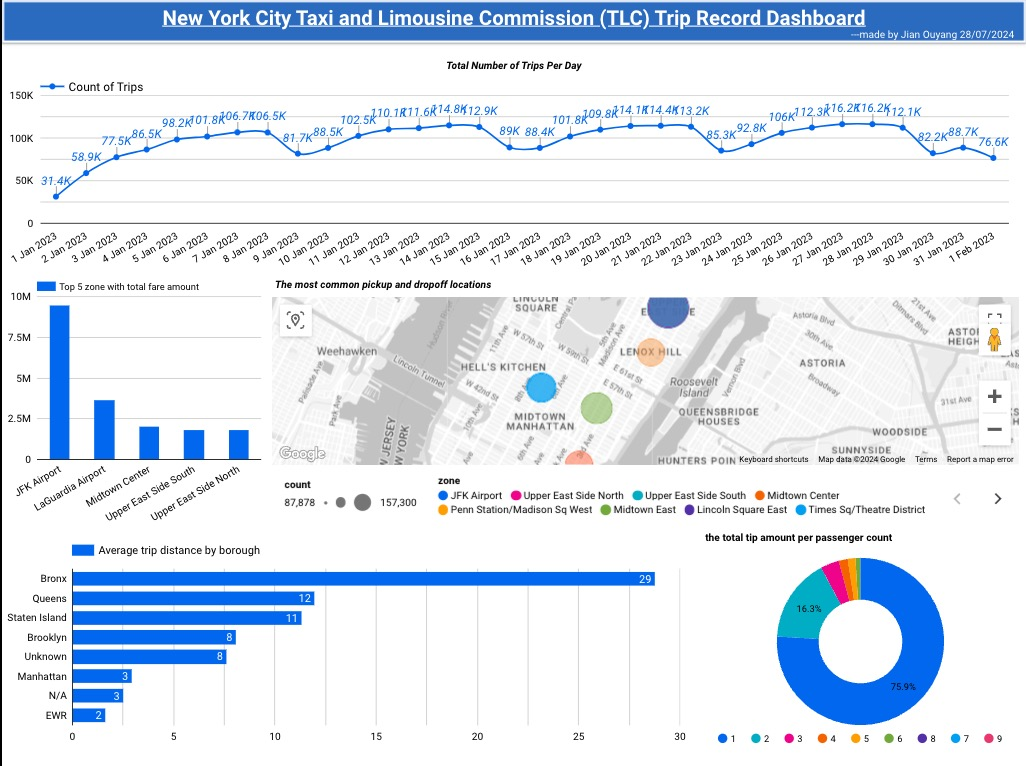
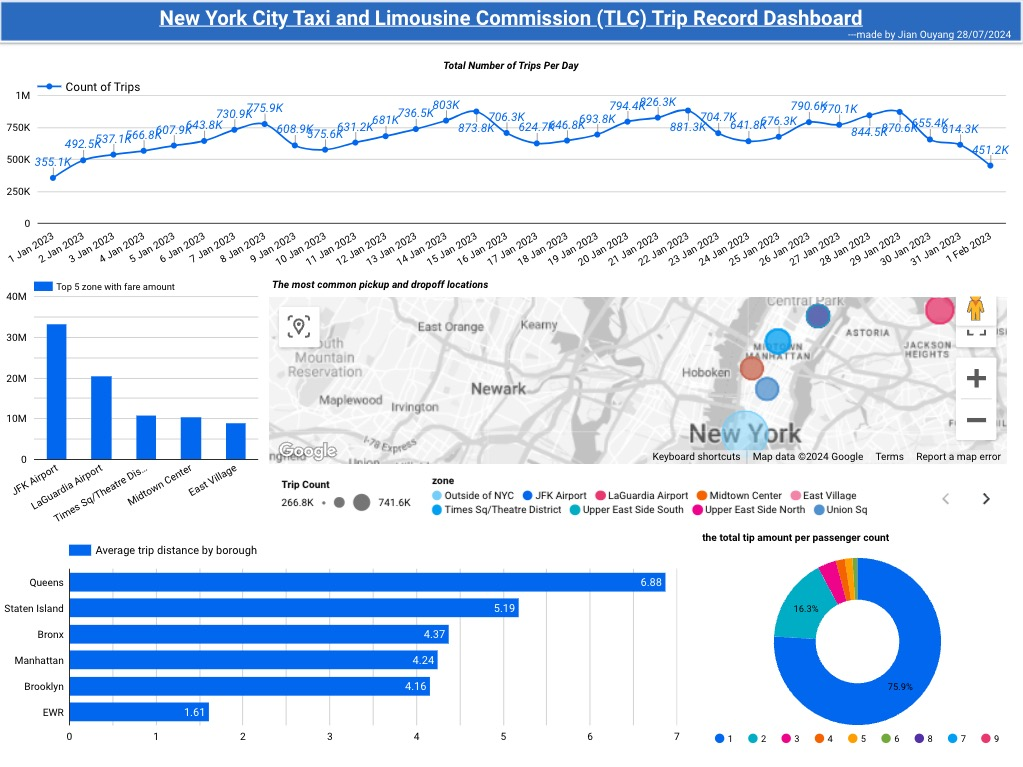
update the sceenshot

diff --git a/analysis.py b/analysis.py
@@ -53,7 +53,7 @@ def avg_trip_dist(cursor):
     SELECT ld.borough, AVG(tf.trip_distance) AS average_trip_distance
     FROM trips_fact tf
     LEFT JOIN location_dim ld ON  tf.pickup_location_id  = ld.location_id
-    where trip_distance is not NULL  
+    where trip_distance  is not NULL and tf.pickup_location_id not in (264,265)
     GROUP BY 
         ld.borough
     ORDER BY 
@@ -72,7 +72,7 @@ def common_locations(cursor):
     sql=f"""
     INSERT INTO common_locations (location_type, zone, trip_count)
     select * from (
-        SELECT top 8 
+        SELECT top 10 
             'pickup' AS location_type,
             ld.zone AS zone,
             COUNT(tf.trip_id) AS trip_count
@@ -86,7 +86,7 @@ def common_locations(cursor):
     ) x
 	UNION ALL 
     select * from (	
-        SELECT top 8  
+        SELECT top 10  
             'dropoff' AS location_type,
             ld.zone AS zone,
             COUNT(tf.trip_id) AS trip_count
